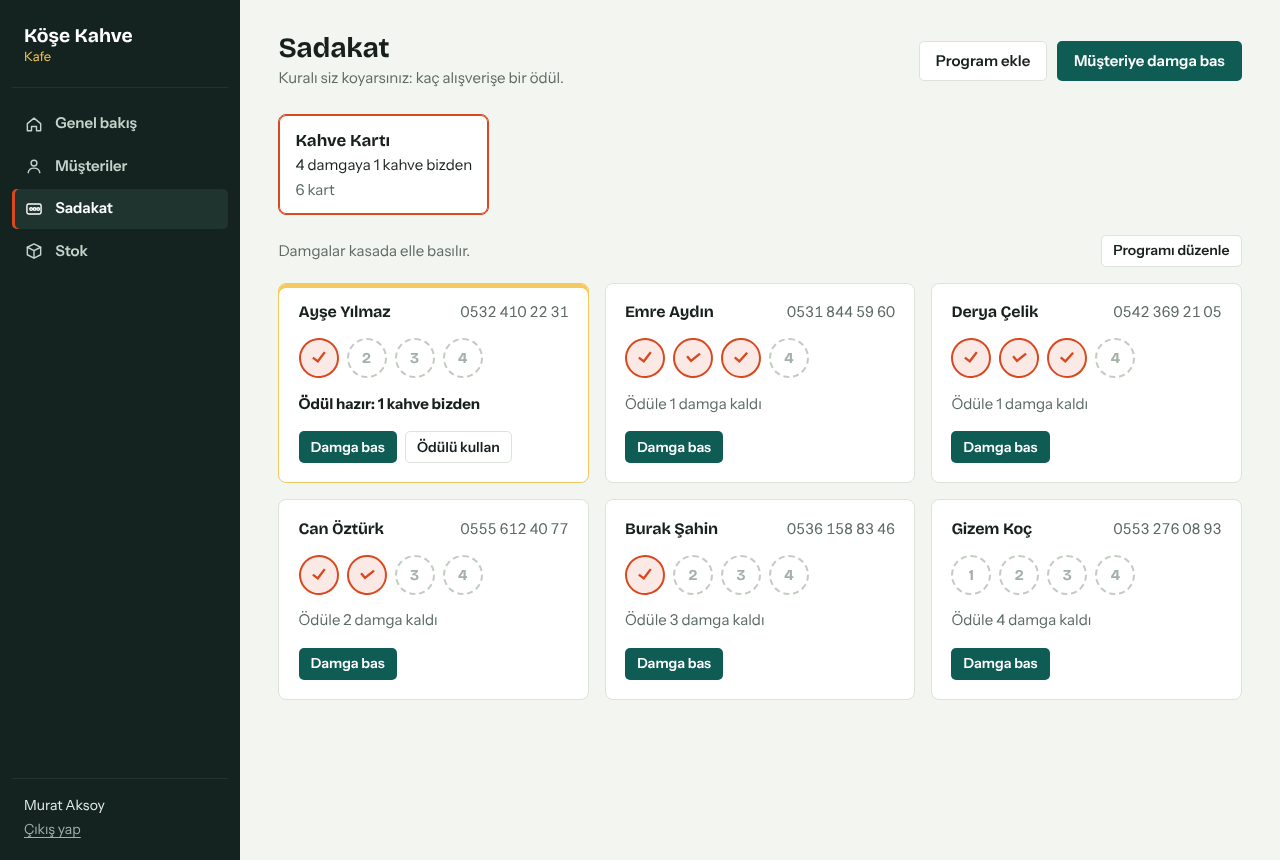
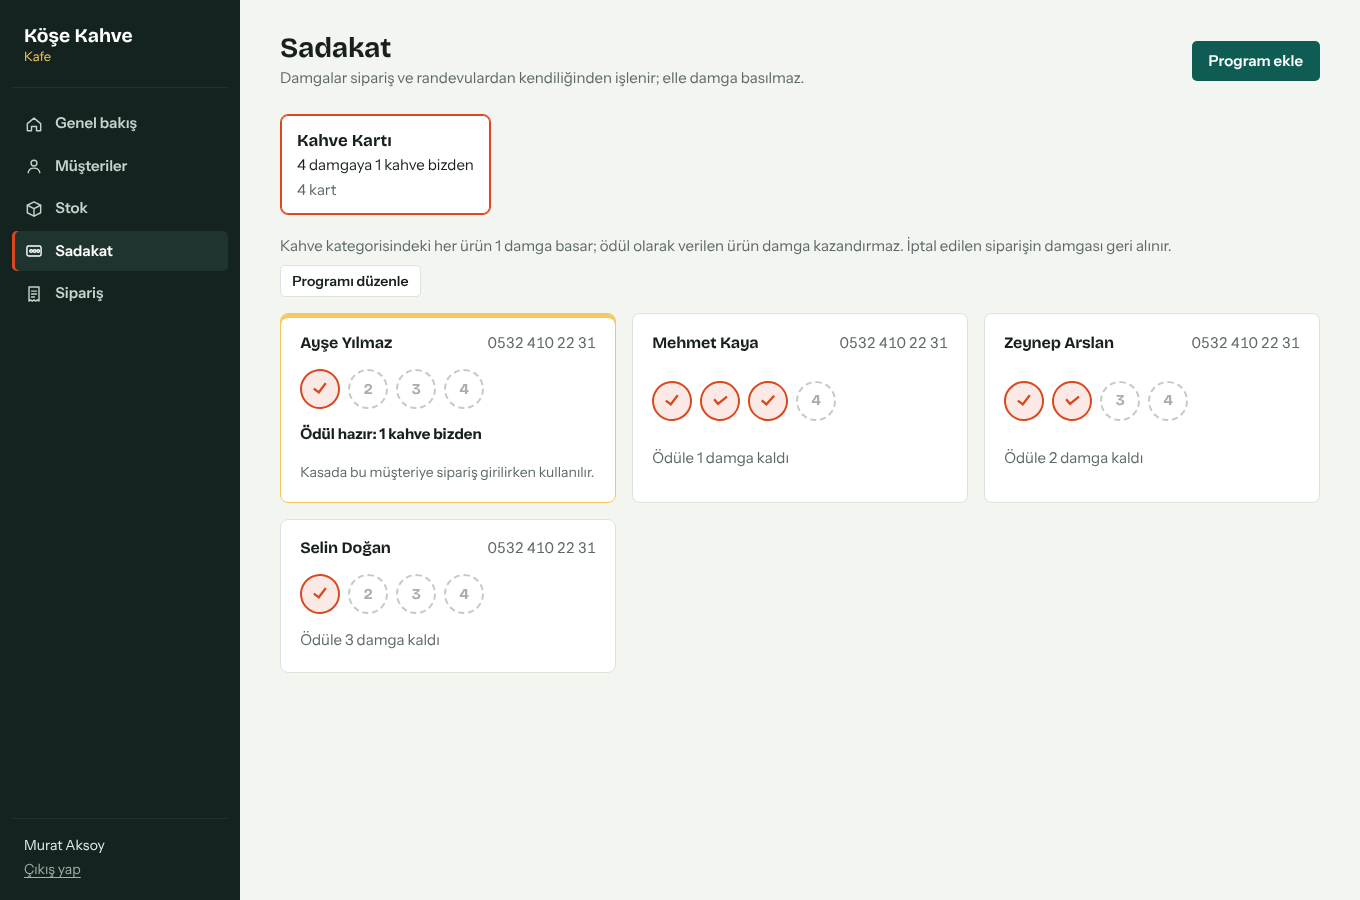
Document the till and automatic stamping

diff --git a/README.md b/README.md
@@ -2,22 +2,25 @@
 
 [![CI](https://github.com/emrecanAy/tezgah/actions/workflows/ci.yml/badge.svg)](https://github.com/emrecanAy/tezgah/actions/workflows/ci.yml)
 
-One platform for small businesses, sold module by module. A hairdresser gets customers, a stamp card and appointments; a café gets the stamp card and stock; a logistics firm gets only fleet tracking. Same code base, same database, and each company sees only what it was given.
+One platform for small businesses, sold module by module. A hairdresser gets customers, a stamp card and appointments; a café gets a till, the stamp card and stock; a logistics firm gets only fleet tracking. Same code base, same database, and each company sees only what it was given.
 
 .NET 10 modular monolith, React 19, PostgreSQL. The UI is in Turkish.
 
-![Loyalty screen of a café: stamp cards filling up towards a free coffee](docs/screenshots/loyalty.png)
+![The café's till: a customer's coffee-card reward makes the cheapest coffee free](docs/screenshots/orders.png)
 
-| Hairdresser: appointments | Logistics: fleet | Platform admin: who gets what |
-|---|---|---|
-| ![Day agenda per staff member](docs/screenshots/agenda.png) | ![Vehicles with inspection and insurance alerts](docs/screenshots/fleet.png) | ![Companies and their module checkboxes](docs/screenshots/admin.png) |
+| Café: stamp cards | Hairdresser: appointments |
+|---|---|
+| ![Stamp cards filled by orders](docs/screenshots/loyalty.png) | ![Day agenda per staff member](docs/screenshots/agenda.png) |
+| **Logistics: fleet** | **Platform admin: who gets what** |
+| ![Vehicles with inspection and insurance alerts](docs/screenshots/fleet.png) | ![Companies and their module checkboxes](docs/screenshots/admin.png) |
 
 ## Modules
 
 | Module | What it does | Needs |
 |---|---|---|
 | **Müşteriler** (customers) | Customer records, one per phone number per company | |
-| **Sadakat** (loyalty) | Stamp cards with a rule the company defines: "every 4 haircuts, one free", "every 4 coffees, one on us". Optional automatic stamp when an appointment is completed | Customers |
+| **Sipariş** (orders) | Menu and till. The till sends what was ordered; the amounts come from the menu. A loyalty reward is spent here and shows up in the total | Customers |
+| **Sadakat** (loyalty) | Stamp cards with a rule the company defines: "every 4 haircuts, one free", "every 4 coffees, one on us". Stamps are earned only from recorded sales and completed visits, never by hand: per item (optionally of one category), per order, or per appointment | Customers |
 | **Randevu** (appointments) | Services, staff, a day agenda. A staff member cannot be double-booked | Customers |
 | **Filo** (fleet) | Vehicles, fuel and maintenance logs, consumption, alerts for inspection, insurance and service dates | |
 | **Stok** (inventory) | Products, stock in/out movements, low-stock warnings | |
@@ -45,7 +48,7 @@ Open http://localhost:8080. The first start creates three demo companies with da
 | Account | Password | Modules |
 |---|---|---|
 | `makas@tezgah.local` (hairdresser) | `demo1234` | Customers, Loyalty, Appointments |
-| `kahve@tezgah.local` (café) | `demo1234` | Customers, Loyalty, Inventory |
+| `kahve@tezgah.local` (café) | `demo1234` | Customers, Orders, Loyalty, Inventory |
 | `lojistik@tezgah.local` (logistics) | `demo1234` | Fleet |
 | `admin@tezgah.local` (platform admin) | `admin1234` | Opens companies, assigns modules |
 
@@ -53,6 +56,7 @@ API reference: http://localhost:5080/docs
 
 ### Things to try
 
+- Sign in as the café, open **Sipariş**, pick the customer Ayşe Yılmaz and add a latte and a Türk kahvesi. Her coffee card is full, so a reward is offered: tick it and the cheaper coffee goes free. Save, then open **Sadakat**: the paid coffee is on her card. Cancel the order in today's list and both the stamp and the reward go back.
 - Sign in as the hairdresser, open **Randevu**, click an appointment and mark it **Tamamlandı**. Then open **Sadakat**: the customer's card has a new stamp. The two modules do not know each other.
 - Try to book the same staff member for an overlapping time. The second booking is refused.
 - Sign in as the admin, give Yıldız Lojistik the **Stok** module, then sign in as Yıldız Lojistik: it appears in the menu.
@@ -85,24 +89,32 @@ flowchart TB
             appointments[Appointments]
             fleet[Fleet]
             inventory[Inventory]
+            orders[Orders]
         end
     end
 
     loyalty -. ICustomerDirectory .-> customers
     appointments -. ICustomerDirectory .-> customers
+    orders -. ICustomerDirectory .-> customers
+    orders -. ILoyaltyRewards<br/>spend a reward .-> loyalty
     appointments -- AppointmentCompleted<br/>via outbox --> loyalty
+    orders -- OrderPlaced, OrderCancelled<br/>via outbox --> loyalty
     api --> pg[(PostgreSQL<br/>one schema per module)]
 ```
 
-**A module is a project that implements `IModule`.** It registers its services, maps its endpoints, owns its migrations and can seed demo data. The host lists the modules once; everything else (routing, the per-company gate, migrations, seeding) loops over that list. Adding a sixth module means one project and one line in `Program.cs`.
+**A module is a project that implements `IModule`.** It registers its services, maps its endpoints, owns its migrations and can seed demo data. The host lists the modules once; everything else (routing, the per-company gate, migrations, seeding) loops over that list. Adding another module means one project and one line in `Program.cs`.
 
-**Modules never reference each other.** They compile against `Tezgah.Core` only and talk through it: `ICustomerDirectory` for looking up customers, integration events for "something happened". `ArchitectureTests` fails the build if a module references another module or exposes anything but its `IModule` class.
+**Modules never reference each other.** They compile against `Tezgah.Core` only and talk through it: `ICustomerDirectory` for looking up customers, `ILoyaltyRewards` for spending a reward at the till, integration events for "something happened". An installation without Loyalty gets an empty `ILoyaltyRewards`, so the till does not care whether it exists. `ArchitectureTests` fails the build if a module references another module or exposes anything but its `IModule` class.
 
 **Multi-tenancy in one place.** Module data implements `ITenantOwned`. The shared `TenantDbContext` stamps the company on insert and adds a query filter on every query, so module code never writes `Where(x => x.TenantId == ...)` and cannot forget it. Reading tenant data without a tenant throws instead of returning everything.
 
 **The module gate in one place.** Every module's endpoints are mounted under `/api/{module}` behind one filter that checks the company's selection. A module cannot leave an endpoint open by mistake.
 
 **Events respect the selection too.** When an appointment is completed, Appointments publishes `AppointmentCompleted` through its outbox. The dispatcher runs Loyalty's handler only if that company has Loyalty, inside that company's tenant scope. A hairdresser without a stamp card gets no loyalty data.
+
+**A stamp is a consequence, not an action.** There is no endpoint that stamps a card. Orders saves a sale and its `OrderPlaced` event in one transaction; Loyalty turns the event into as many stamps as the program's rule says, keyed by the order. Cancelling the order publishes `OrderCancelled`, which takes the stamps back and returns a reward the order spent. A stamp therefore always points at a sale that exists.
+
+**Spending a reward is a direct call.** It changes the price, so it cannot wait for an event. The till claims the reward through `ILoyaltyRewards` with the order's id, then saves the order. If the save fails the claim is released; if the same order is sent again the claim is found and not repeated.
 
 ## Correctness under concurrency
 
@@ -111,10 +123,13 @@ Small businesses have two tills and a phone, and the same thing does happen twic
 | Situation | Guard | Test |
 |---|---|---|
 | Ten receptionists book the same 10:00 slot for the same stylist | PostgreSQL `EXCLUDE USING gist (staff_id WITH =, tstzrange(starts_at, ends_at) WITH &&)`. Cancelled appointments do not block | `Ten_people_booking_the_same_slot_at_once_produce_exactly_one_appointment` |
-| Two tills stamp the same customer's card at the same moment | The card row is locked (`FOR UPDATE`); the very first stamps race to create the card and are settled by a unique index | `Stamps_given_at_the_same_moment_are_all_counted` |
-| One reward redeemed from two tills | Same row lock | `One_reward_redeemed_from_several_tills_at_once_is_handed_out_once` |
+| Two tills ring up orders for the same customer at the same moment | Every change to a customer's cards runs under a PostgreSQL advisory lock on that customer (`pg_advisory_xact_lock`). A row lock would not do: the first stamps race to create a card that has no row yet | `Stamps_from_orders_rung_up_at_the_same_moment_are_all_counted` |
+| One reward spent from several tills | Same lock; the reward is claimed before the order is saved | `One_reward_spent_from_several_tills_at_once_goes_to_one_order` |
+| A double tap or a retry sends the same order again | The till chooses the order id: the primary key stops the second insert, the reward claim and the stamps are keyed by it | `The_same_order_sent_several_times_at_once_is_recorded_and_stamped_once` |
+| A retried stamp event arrives after the order was cancelled | The cancellation leaves a mark in Loyalty; a late stamp for that order is refused | `A_stamp_arriving_after_its_order_was_cancelled_is_refused` |
+| Two tills cancel the same order | `xmin` concurrency token: one wins, the event goes out once | `An_order_cancelled_from_two_tills_at_once_is_cancelled_once` |
 | Thirty sales of the last ten items | One conditional `UPDATE ... SET stock = stock - n WHERE stock - n >= 0`, plus a `CHECK (stock >= 0)` | `Thirty_people_taking_one_item_each_from_a_stock_of_ten_empty_it_exactly` |
-| An appointment's "completed" event delivered twice | The stamp records its source; a second delivery finds it and does nothing | `Completing_an_appointment_stamps_the_customers_loyalty_card_exactly_once` |
+| An event delivered twice | Each stamp records its source (`order:{id}`, `appointment:{id}`), unique per card; a second delivery finds it and does nothing | `Completing_an_appointment_stamps_the_customers_loyalty_card_exactly_once` |
 | One company reading another's data | Tenant query filter; foreign ids answer 404 | `TenantIsolationTests` |
 
 ## Repository layout
@@ -130,6 +145,7 @@ src/
     Tezgah.Appointments/
     Tezgah.Fleet/
     Tezgah.Inventory/
+    Tezgah.Orders/
 tests/Tezgah.Tests/        integration tests on real PostgreSQL, module catalog, architecture rules
 web/                       React + TypeScript + Vite + TanStack Query, one folder per module
 ```
@@ -137,6 +153,8 @@ web/                       React + TypeScript + Vite + TanStack Query, one folde
 ## Deliberately left out
 
 - **Staff accounts and roles inside a company.** Each company has its owner account. Roles exist in the token but every company user can do everything in the modules they have.
+- **Payments.** The till records what was sold and for how much; taking the money is outside.
+- **Orders taking stock out of Inventory.** Menu items and stock products are separate lists. Linking them (a latte uses 18 g of beans and 200 ml of milk) is a recipe feature of its own.
 - **Billing.** Which modules a company pays for is the admin's checkbox, not a subscription system.
 - **Working hours and online self-booking.** The agenda shows 09:00 to 20:00 and bookings are made by staff.
 - **SMS or e-mail reminders** for appointments and fleet due dates.
